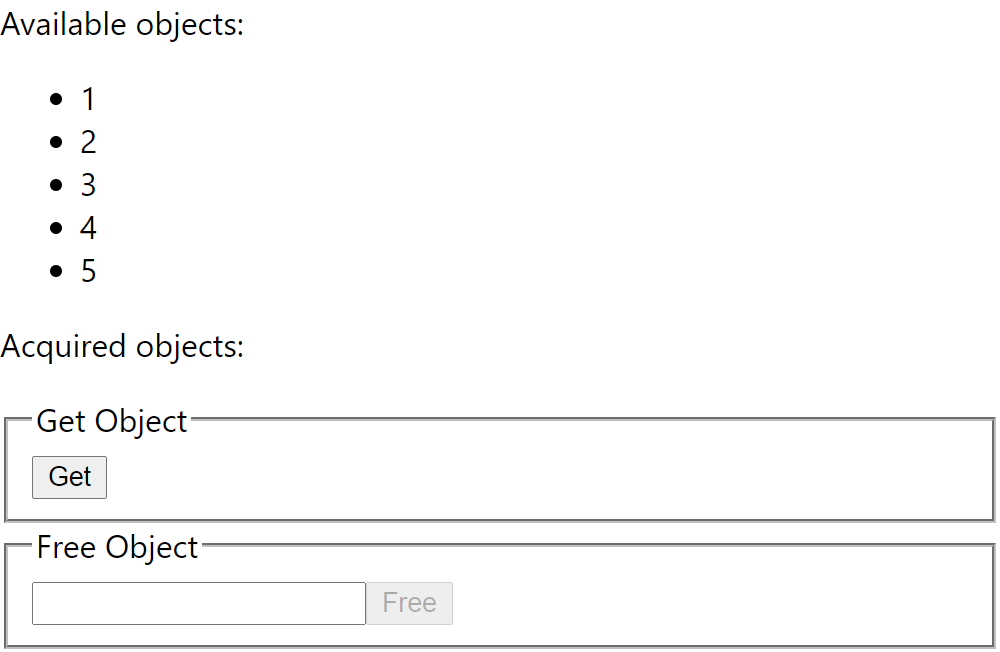
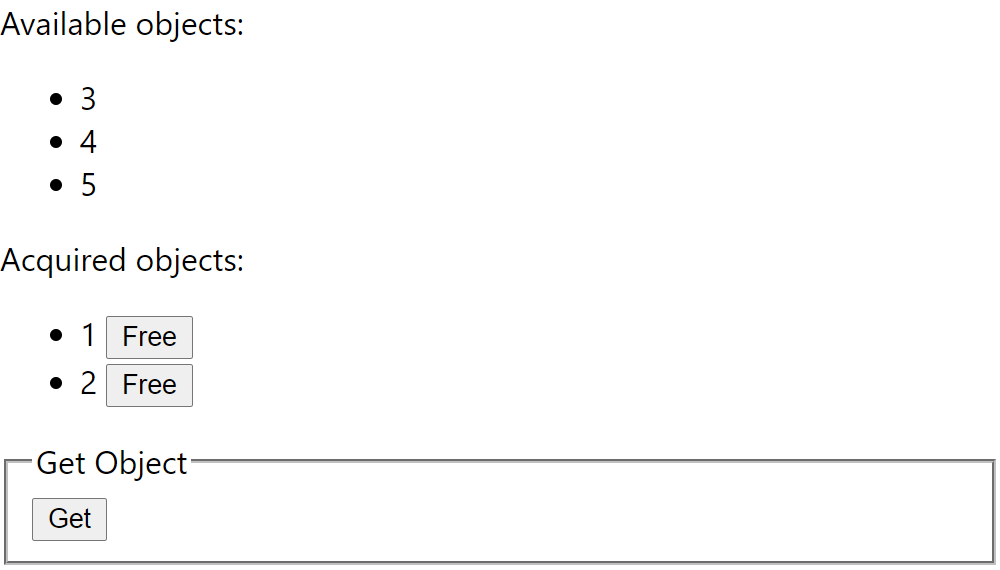
Add buttons to free acquired objects

diff --git a/src/App.js b/src/App.js
@@ -1,7 +1,6 @@
 import React from 'react';
 import { listObjects, getObject, freeObject } from './api';
 import ButtonForm from './ButtonForm';
-import InputForm from './InputForm';
 import ObjectManagerList from './ObjectManagerList';
 
 class App extends React.Component {
@@ -11,14 +10,14 @@ class App extends React.Component {
       objects: [],
       objectsError: '',
     };
-    this.updateObjects = this.updateObjects.bind(this);
+    this.refreshObjects = this.refreshObjects.bind(this);
   }
 
   componentDidMount() {
-    this.updateObjects();
+    this.refreshObjects();
   }
 
-  async updateObjects() {
+  async refreshObjects() {
     let newObjects;
     try {
       newObjects = await listObjects();
@@ -40,21 +39,27 @@ class App extends React.Component {
       <>
         {this.state.objectsError
           ? <div>Error listing objects: {this.state.objectsError}</div>
-          : <ObjectManagerList objects={this.state.objects} />}
-        <ButtonForm name="Get" onSubmit={async () => {
-          try {
-            return await getObject();
-          } finally {
-            await this.updateObjects();
-          }
-        }} />
-        <InputForm name="Free" onSubmit={async (value) => {
-          try {
-            return await freeObject(value);
-          } finally {
-            await this.updateObjects();
-          }
-        }} />
+          : <ObjectManagerList
+              objects={this.state.objects}
+              freeObject={async (value) => {
+                try {
+                  return await freeObject(value);
+                } finally {
+                  await this.refreshObjects();
+                }
+              }}
+            />
+        }
+        <ButtonForm
+          name="Get"
+          onSubmit={async () => {
+            try {
+              return await getObject();
+            } finally {
+              await this.refreshObjects();
+            }
+          }}
+        />
       </>
     );
   }

diff --git a/src/ObjectManagerList.js b/src/ObjectManagerList.js
@@ -1,6 +1,6 @@
 import React from 'react';
 
-function ObjectManagerList({ objects }) {
+function ObjectManagerList({ objects, freeObject }) {
   const available = [];
   const acquired = [];
   objects.forEach(obj => {
@@ -16,13 +16,23 @@ function ObjectManagerList({ objects }) {
       <div className="ObjectManagerList-available">
         Available objects:
         <ul>
-          {available.map(obj => <li>{obj.object}</li>)}
+          {available.map(obj => <li key={obj.object}>{obj.object}</li>)}
         </ul>
       </div>
       <div className="ObjectManagerList-acquired">
         Acquired objects:
         <ul>
-          {acquired.map(obj => <li>{obj.object}</li>)}
+          {acquired.map(obj =>
+            <li key={obj.object}>
+              {obj.object}{' '}
+              <button
+                data-object={obj.object}
+                onClick={() => freeObject(obj.object)}
+              >
+                Free
+              </button>
+            </li>
+          )}
         </ul>
       </div>
     </div>

diff --git a/tests/test_spa.py b/tests/test_spa.py
@@ -1,5 +1,6 @@
 import subprocess
 import threading
+from time import sleep
 
 import pytest
 from selenium import webdriver
@@ -25,10 +26,9 @@ def test_get_free(browser: webdriver.Remote, react_server):
     ]
     get_available_items = lambda: get_texts('.ObjectManagerList-available li')
     get_acquired_items = lambda: get_texts('.ObjectManagerList-acquired li')
-    get_btn = clickable(br, '#get input[type=submit]')
-    free_input = visible(br, '#free input[type=text]')
+    get_btn = lambda: clickable(br, '#get input[type=submit]')
 
-    get_btn.click()
+    get_btn().click()
     assert visible(br, '#get div').text == 'Error: the pool is empty'
 
     assert get_available_items() == []
@@ -36,30 +36,27 @@ def test_get_free(browser: webdriver.Remote, react_server):
 
     app.mgr.put_object(1)
 
-    free_input.send_keys('1' + Keys.ENTER)
-    assert visible(br, '#free div').text == 'Freed object 1'
-
+    br.refresh()
     assert get_available_items() == ['1']
     assert get_acquired_items() == []
 
-    get_btn.click()
+    get_btn().click()
     assert visible(br, '#get div').text == 'Got object 1'
 
     assert get_available_items() == []
-    assert get_acquired_items() == ['1']
+    assert get_acquired_items() == ['1 Free']
 
-    get_btn.click()
+    get_btn().click()
     assert visible(br, '#get div').text == 'Error: all objects are acquired'
 
-    free_input.send_keys(Keys.ENTER)
-    assert visible(br, '#free div').text == 'Freed object 1'
-
+    clickable(br, 'button[data-object="1"]').click()
+    sleep(0.1)
     assert get_available_items() == ['1']
     assert get_acquired_items() == []
 
     app.mgr.drop_object(1)
 
-    get_btn.click()
+    get_btn().click()
     assert visible(br, '#get div').text == 'Error: the pool is empty'
 
     assert get_available_items() == []
